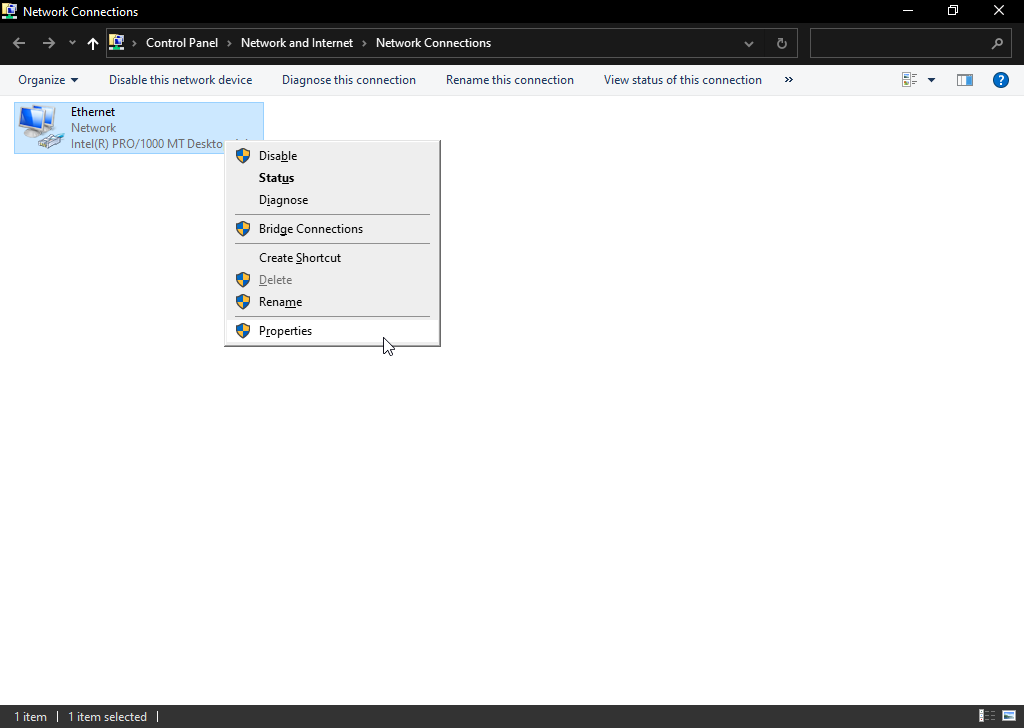
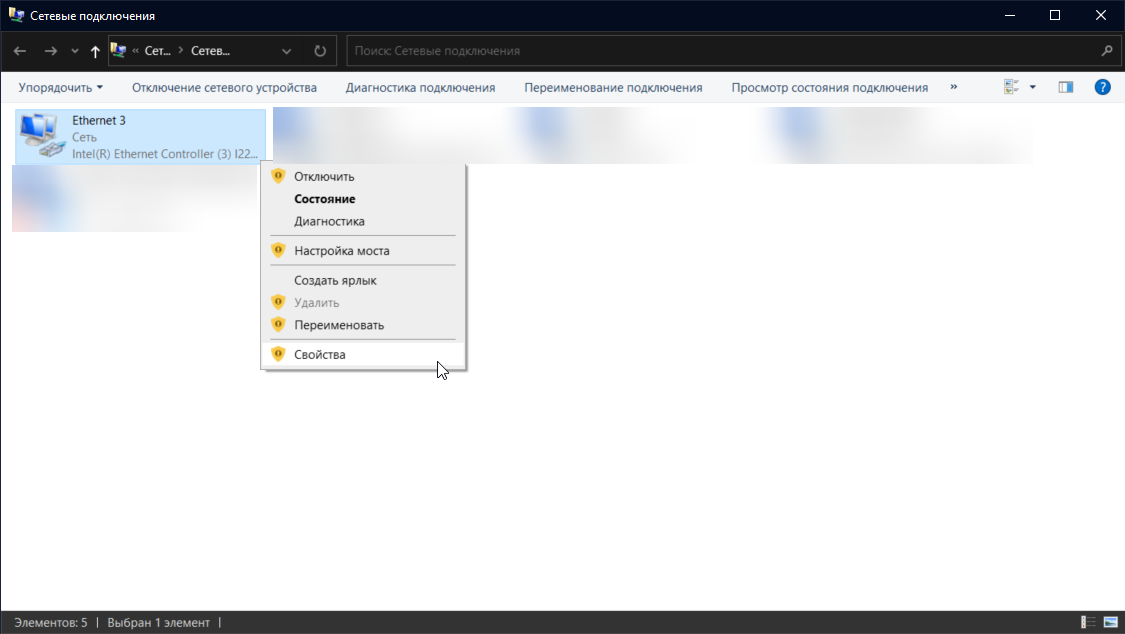
translated invalid ipv6 + other group

Changed region(s): [[0.0, 0.0, 1.0, 0.5994], [0.0, 0.959, 1.0, 1.0]]

diff --git a/connectivity/invalid-ipv6.md b/connectivity/invalid-ipv6.md
@@ -17,27 +17,27 @@ layout:
     visible: true
 ---
 
-# 🔘 Invalid IPv6
+# 🔘 Недействительный IPv6
 
-If you're stuck on connection to master server and when you're pinging `api.battlebit.cloud` it resolves as Invalid IPv6, do next:
+Если вы застряли на подключении к мастер-серверу, и когда вы пытаетесь проверить его работоспособность посредством команды `ping api.battlebit.cloud` в консоли вам выдает неверный IPv6, сделайте следующее:
 
 <details>
 
 <summary>Windows 10</summary>
 
-1. Click on "Network & Internet" in Windows Settings.
+1. Перейдите в Параметры Windows и нажмите на "Сеть и Интернет".
 
 <img src="../.gitbook/assets/network.png" alt="" data-size="original">
 
-2. Depending on your connection type select Wifi or Ethernet on "Change adapter options".
+2. Выберите "Настройка параметров адаптера".
 
 <img src="../.gitbook/assets/adapter.png" alt="" data-size="original">
 
-3. Right click on your main adapter and select properties.
+3. Нажмите ПКМ по вашей основной сети, затем выберите "Свойства".
 
 <img src="../.gitbook/assets/adapterproperties.png" alt="" data-size="original">
 
-4. Disable "Internet Protocol Version 6 (TCP/IPv6)" and press OK.
+4. Выключите "IP версии 6 (TCP/IPv6)" и нажмите ОК.
 
 <img src="../.gitbook/assets/disableipv6.png" alt="" data-size="original">
 
@@ -47,24 +47,24 @@ If you're stuck on connection to master server and when you're pinging `api.batt
 
 <summary>Windows 11</summary>
 
-1. Click on "Network & Internet" in Windows Settings.
+1. Перейдите в параметры Windows 11 и нажмите на вкладку "Сеть и Интернет".
 
-<img src="https://images.taylorgibbs.dev/bkfhsk.png" alt="" data-size="original">
+<img src="../.gitbook/assets/w11network.png" alt="" data-size="original">
 
-2. Click "Advanced Network Settings"
+2. Нажмите на "Дополнительные сетевые параметры".
 
-<img src="https://images.taylorgibbs.dev/uzyc3u.png" alt="" data-size="original">
+<img src="../.gitbook/assets/w11advancednetworkoptions.png" alt="" data-size="original">
 
-3. Scroll down and click "More network adapter options".
+3. Чуть ниже нажмите на "Дополнительные параметры сетевого адаптера".
 
-<img src="https://images.taylorgibbs.dev/a2myev.png" alt="" data-size="original">
+<img src="../.gitbook/assets/w11moreoptions.png" alt="" data-size="original">
 
-4. Right-click on your internet connection and click "Properties".
+4. Нажмите ПКМ по вашей основной сети, затем выберите "Свойства".
 
-<img src="https://images.taylorgibbs.dev/rn04y5.png" alt="" data-size="original">
+<img src="../.gitbook/assets/w11networkproperties.png" alt="" data-size="original">
 
-4. Disable "Internet Protocol Version 6 (TCP/IPv6)" and press OK.
+5. Выключите "IP версии 6 (TCP/IPv6)" и нажмите ОК.
 
-<img src="https://images.taylorgibbs.dev/no8q11.png" alt="" data-size="original">
+<img src="../.gitbook/assets/w11disableipv6.png" alt="" data-size="original">
 
 </details>

diff --git a/other/saving-all-your-settings-in-one-file.md b/other/saving-all-your-settings-in-one-file.md
@@ -1,25 +1,25 @@
 ---
 description: >-
-  This page will help you to export all your settings including keybinds,
-  sensitivity, UI and others into one file.
+  Эта страница поможет вам экспортировать все ваши настройки включая бинды,
+  чувствительноcть, интерфейс и другое в один файл.
 ---
 
-# 🔘 Saving all your settings in one file
+# 🔘 Сохраняем все настройки в один файл
 
-1. Open registry editor.
+1. Откройте редактор реестра.
 
-<figure><img src="../.gitbook/assets/runregedit.png" alt=""><figcaption><p>Press Win+R, type<code>regedit.exe</code> and press enter.</p></figcaption></figure>
+<figure><img src="../.gitbook/assets/runregedit.png" alt="" width="369"><figcaption><p>Нажмите Win+R, введите <code>regedit.exe</code> и нажмите Enter.</p></figcaption></figure>
 
-2. Navigate to `HKEY_CURRENT_USER\SOFTWARE\BattleBitDevTeam\BattleBit`.
+2. Проследуйте по пути `HKEY_CURRENT_USER\SOFTWARE\BattleBitDevTeam\BattleBit`.
 
 <div align="center">
 
-<figure><img src="../.gitbook/assets/battlebitregistry.png" alt=""><figcaption></figcaption></figure>
+<figure><img src="../.gitbook/assets/battlebitregistry.png" alt="" width="365"><figcaption></figcaption></figure>
 
 </div>
 
-3. Right click on `BattleBit` folder and press Export.
+3. Нажмите ПКМ по папке `BattleBit`, а затем "Экспортировать".
 
 <figure><img src="../.gitbook/assets/battlebitexport.png" alt=""><figcaption></figcaption></figure>
 
-4. Save this file and then run it to restore your settings (keybinds, sensitivity, etc).
+4. Сохраните этот файл. Когда вы захотите восстановить настройки, просто запустите его.

diff --git a/other/running-sfc-dism.md b/other/running-sfc-dism.md
@@ -1,21 +1,21 @@
-# 🔘 Running sfc/dism
+# 🔘 Запуск sfc/dism
 
-1. Run command prompt as administrator.
+1. Запустите коммандную строку от администратора.
 
-<figure><img src="../.gitbook/assets/cmd.png" alt=""><figcaption><p>Type <code>cmd.exe</code> in search and press "Run as administrator".</p></figcaption></figure>
+<figure><img src="../.gitbook/assets/cmd.png" alt="" width="563"><figcaption><p>Введите <code>cmd.exe</code> в пуске и нажмите "Запуск от имени администратора".</p></figcaption></figure>
 
-2. Run next commands in order:\
+2. Запустите следующие команды по порядку:\
    `sfc /scannow`\
-   `dism /online /cleanup-image /restorehealth`\
-   `dism /online /cleanup-image /scanhealth` \
+   `dism /online /cleanup-image /checkhealth`\
+   `dism /online /cleanup-image /scanhealth`\
    `dism /online /cleanup-image /restorehealth`
 
 <figure><img src="../.gitbook/assets/sfcdism.png" alt=""><figcaption><p>That's how command prompt should look after both sfc and dism finished.</p></figcaption></figure>
 
-3. After it's finished, additionally you can run `chkdsk /f /r /x` to check your drive for corruptions.
+3. После того, как они завершат свою работу, дополнительно вы можете запустить  `chkdsk /f /r /x` чтобы проверить ваш диск на повреждения.
 
 <figure><img src="../.gitbook/assets/chkdsk.png" alt=""><figcaption></figcaption></figure>
 
-After you'll press Y, reboot your PC.
+После того как вы нажмете Y, перезагрузите ваш ПК и `chkdsk` начнет работу.
 
 <figure><img src="../.gitbook/assets/chkdskloading.png" alt=""><figcaption></figcaption></figure>

diff --git a/other/your-account-is-being-reviewed-by-moderators.md b/other/your-account-is-being-reviewed-by-moderators.md
@@ -12,12 +12,12 @@ layout:
     visible: true
 ---
 
-# 🔘 Your account is being reviewed by moderators
+# 🔘 Ваш аккаунт проверяется модераторами.
 
 <figure><img src="../.gitbook/assets/review.png" alt="" width="563"><figcaption></figcaption></figure>
 
-**First of all - be patient, this can take up to a few hours.**&#x20;
+**В первую очередь - наберитесь терпимости, это может занять вплоть до нескольких часов.**
 
-This is not a ban but a timeout and it may be lifted after a game moderator has reviewed your gameplay. There are multiple factors of why the system has timed you out, as well as abnormal amount of reports for specified reason. \
+Это не бан, а таймаут и может быть снят после того как игровой модератор просмотрит ваш геймплей. Существует несколько факторов того, почему система выдала вам таймаут, одним из них является ненормальное количество репортов по указанной причине.\
 \
-**This can happen again** even after your timeout gets lifted. We understand that this system isn't perfect and developers looking into improving it.
+**Это может произойти снова** даже после того как вам снимут таймаут. Мы понимаем, что эта система далека от идеала и разработчики активно рассматривают возможность ее улучшения.

diff --git a/other/contribute.md b/other/contribute.md
@@ -17,8 +17,8 @@ layout:
     visible: true
 ---
 
-# 💡 Contribute
+# 💡 Внести свой вклад
 
-**You can help us by contributing to this documentation or by simply investigating some issues that doesn't being mentioned here.**\
+**Вы можете помочь нам посредством внесения своего вклада в эту документацию или просто помочь в исследовании некоторых проблем, которые здесь не упоминаются.**\
 \
-If you want to do so, proceed to [BattleBit Troubleshooting](https://discord.gg/xVr6rdfpuk) discord and contact one of the Project Leads to designate yourself. Thank you!
+Если у вас появилось такое желание, пожалуйста, посетите наш дискорд сервер [BattleBit Troubleshooting](https://discord.gg/xVr6rdfpuk) и свяжитесь с одним из Project Lead'ов для того, чтобы назначить себя на необходимую роль. Спасибо!

diff --git a/SUMMARY.md b/SUMMARY.md
@@ -23,14 +23,14 @@
 
 ## 📶 Connectivity
 
-* [🔘 Invalid IPv6](connectivity/invalid-ipv6.md)
+* [🔘 Недействительный IPv6](connectivity/invalid-ipv6.md)
 
 ## 📑 Other
 
-* [🔘 Your account is being reviewed by moderators.](other/your-account-is-being-reviewed-by-moderators.md)
-* [🔘 Running sfc/dism](other/running-sfc-dism.md)
-* [🔘 Saving all your settings in one file](other/saving-all-your-settings-in-one-file.md)
-* [💡 Contribute](other/contribute.md)
+* [🔘 Ваш аккаунт проверяется модераторами.](other/your-account-is-being-reviewed-by-moderators.md)
+* [🔘 Запуск sfc/dism](other/running-sfc-dism.md)
+* [🔘 Сохраняем все настройки в один файл](other/saving-all-your-settings-in-one-file.md)
+* [💡 Внести свой вклад](other/contribute.md)
 
 ***
 
